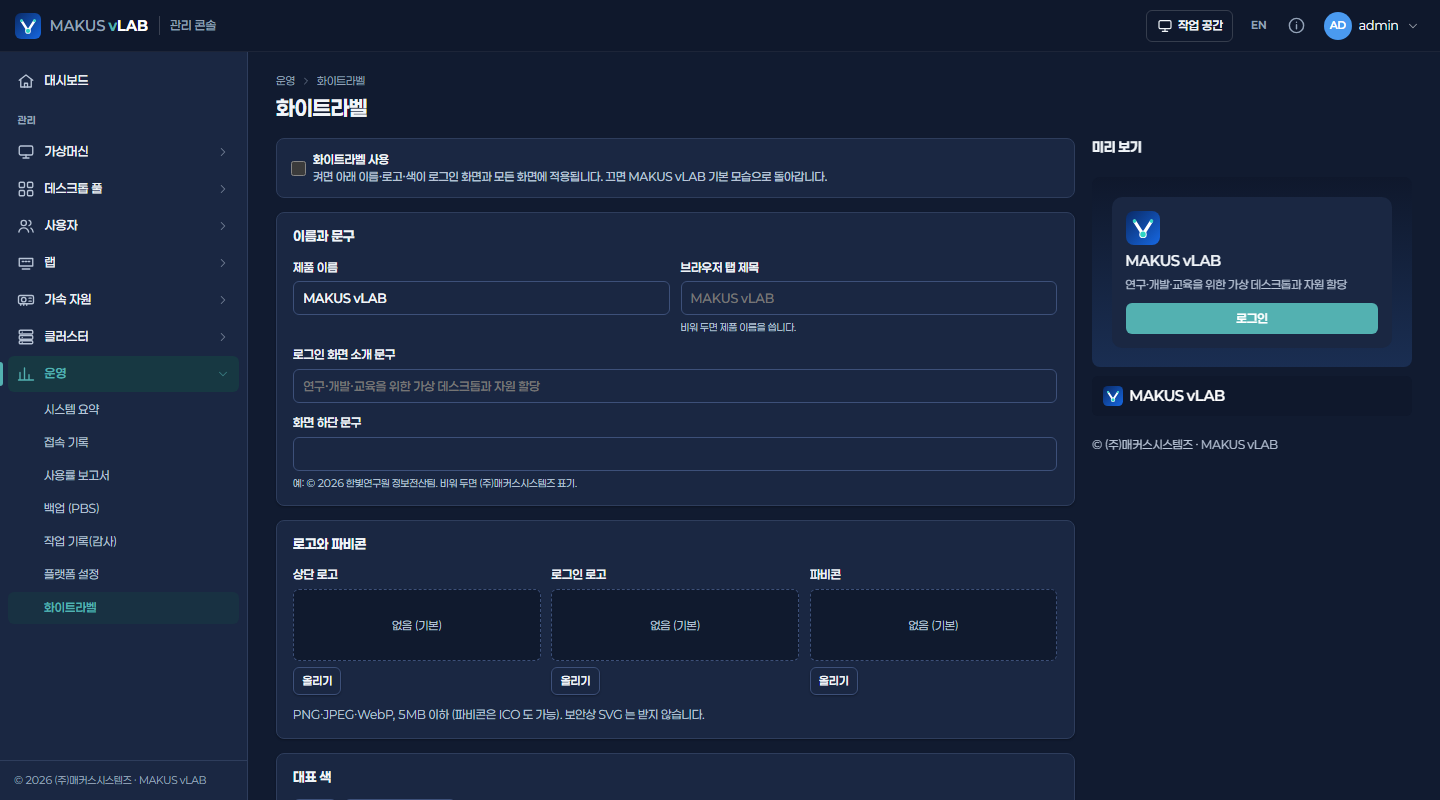
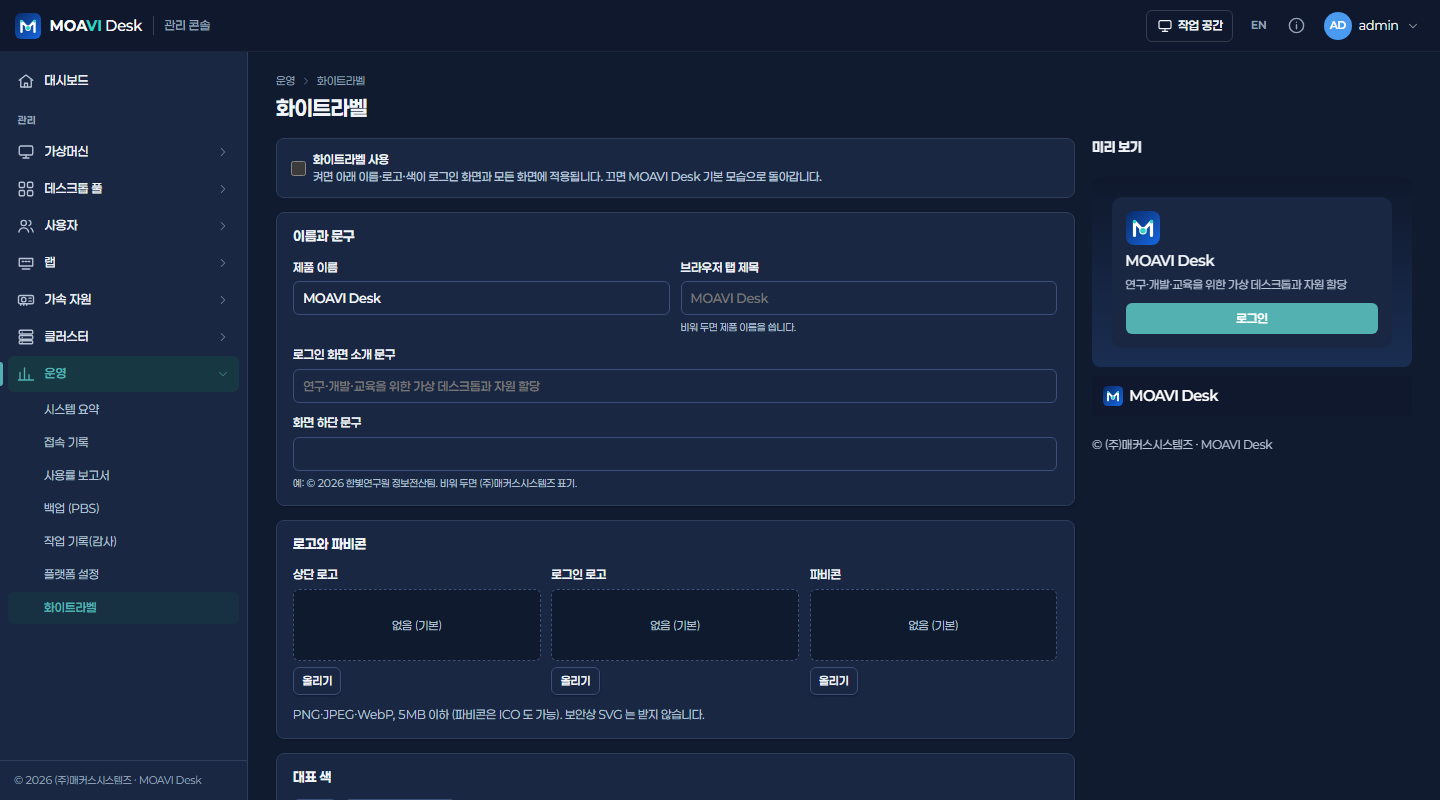
Product name MOAVI Desk: MOAVI family symbol and word mark

diff --git a/src/i18n/messages.ts b/src/i18n/messages.ts
@@ -38,7 +38,7 @@ export const messages = {
   'nav.manage': { ko: '관리', en: 'Administration' },
   'nav.dashboard': { ko: '대시보드', en: 'Dashboard' },
   'quick.title': { ko: '빠른 작업', en: 'Quick actions' },
-  'quick.client': { ko: 'vLAB Client 받기', en: 'Get the vLAB Client' },
+  'quick.client': { ko: 'MOAVI Desk Client 받기', en: 'Get MOAVI Desk Client' },
   'quick.clientDesc': { ko: 'PC나 랩 단말에 설치해 클릭 한 번으로 접속합니다.', en: 'Install it on your PC or lab terminal and connect in one click.' },
   'quick.soon': { ko: '준비 중', en: 'Coming soon' },
   'quick.help': { ko: '접속 방법 안내', en: 'How to connect' },
@@ -79,7 +79,7 @@ export const messages = {
   'portal.resources': { ko: '내 자원', en: 'My resources' },
   'portal.empty': { ko: '할당된 데스크톱이 없습니다.', en: 'No desktops are assigned to you.' },
   'portal.emptyHint': { ko: '관리자가 데스크톱 풀 권한을 주면 여기에 나타납니다.', en: 'Desktops appear here once an administrator grants you a pool.' },
-  'portal.notReady': { ko: '서버에 vLAB 기능이 아직 준비되지 않았습니다.', en: 'The vLAB service is not available on the server yet.' },
+  'portal.notReady': { ko: '서버에 MOAVI Desk 기능이 아직 준비되지 않았습니다.', en: 'The MOAVI Desk service is not available on the server yet.' },
   'portal.connect': { ko: '접속', en: 'Connect' },
   'portal.state.ready': { ko: '사용 가능', en: 'Ready' },
   'portal.state.in_use': { ko: '사용 중', en: 'In use' },
@@ -212,10 +212,10 @@ export const messages = {
   'access.desktops': { ko: '할당된 데스크톱', en: 'Assigned desktops' },
   'access.noDesktops': { ko: '할당된 데스크톱이 없습니다.', en: 'No desktops assigned.' },
   'access.acl': { ko: 'VM 권한', en: 'VM grants' },
-  'access.aclHint': { ko: '"vLAB 할당"은 할당을 해제하면 함께 회수됩니다. "직접 부여"는 vLAB 밖에서 준 권한이라 할당을 해제해도 남습니다.', en: '"vLAB assignment" goes away with the assignment. "Direct" was given outside vLAB and stays after unassigning.' },
+  'access.aclHint': { ko: '"MOAVI Desk 할당"은 할당을 해제하면 함께 회수됩니다. "직접 부여"는 MOAVI Desk 밖에서 준 권한이라 할당을 해제해도 남습니다.', en: '"MOAVI Desk assignment" goes away with the assignment. "Direct" was given outside MOAVI Desk and stays after unassigning.' },
   'access.noAcl': { ko: 'VM 권한이 없습니다.', en: 'No VM grants.' },
   'access.aclUnavailable': { ko: 'VM 권한 목록을 읽지 못했습니다.', en: 'The VM access list could not be read.' },
-  'access.src.vlab': { ko: 'vLAB 할당', en: 'vLAB assignment' },
+  'access.src.vlab': { ko: 'MOAVI Desk 할당', en: 'MOAVI Desk assignment' },
   'access.src.direct': { ko: '직접 부여', en: 'Direct' },
   'access.perms': { ko: '권한', en: 'Permissions' },
   'access.source': { ko: '권한 출처', en: 'Granted by' },
@@ -239,7 +239,7 @@ export const messages = {
   'dir.userFilter': { ko: '사용자 필터', en: 'User filter' },
   'dir.attrs': { ko: '속성 (아이디 · 메일 · 표시 이름)', en: 'Attributes (username · mail · display name)' },
   'dir.groups': { ko: '그룹 → 역할', en: 'Groups → roles' },
-  'dir.groupsHint': { ko: 'AD 그룹마다 vLAB 역할을 정합니다. 예: IT 관리자 그룹 → 관리자, 연구원·직원·교육생 그룹 → 사용자.', en: 'Map AD groups to vLAB roles, e.g. staff → administrator, students → user.' },
+  'dir.groupsHint': { ko: 'AD 그룹마다 MOAVI Desk 역할을 정합니다. 예: IT 관리자 그룹 → 관리자, 연구원·직원·교육생 그룹 → 사용자.', en: 'Map AD groups to MOAVI Desk roles, e.g. staff → administrator, students → user.' },
   'dir.groupDn': { ko: '그룹 DN', en: 'Group DN' },
   'dir.addMapping': { ko: '그룹 추가', en: 'Add group' },
   'dir.accounts': { ko: '계정 만들기', en: 'Accounts' },
@@ -307,7 +307,7 @@ export const messages = {
   'cl.storage': { ko: "스토리지", en: "Storage" },
   'cl.guests': { ko: "게스트", en: "Guests" },
   'cl.runningOf': { ko: "{n}대 실행 중", en: "{n} running" },
-  'cl.desktops': { ko: "vLAB 데스크톱", en: "vLAB desktops" },
+  'cl.desktops': { ko: "MOAVI Desk 데스크톱", en: "MOAVI Desk desktops" },
   'cl.perNode': { ko: "노드별 사용량", en: "Use per node" },
   'cl.storageUse': { ko: "스토리지 사용량", en: "Storage use" },
   'cl.node': { ko: "노드", en: "Node" },
@@ -414,7 +414,7 @@ export const messages = {
   'gpu.applied': { ko: "{n}대에 적용했습니다.", en: "Applied to {n}." },
   'gpu.restart': { ko: "켜져 있는 {n}대는 다시 켜야 반영됩니다.", en: "{n} running desktops take it at their next start." },
   'gpu.failed': { ko: "{n}대 실패: {error}", en: "{n} failed: {error}" },
-  'gpu.slotNote': { ko: "vLAB은 VM의 hostpci15 자리만 씁니다. 직접 넣은 다른 PCI 장치는 그대로 둡니다.", en: "vLAB only writes the VM’s hostpci15 slot; other PCI devices stay as they are." },
+  'gpu.slotNote': { ko: "MOAVI Desk는 VM의 hostpci15 자리만 씁니다. 직접 넣은 다른 PCI 장치는 그대로 둡니다.", en: "MOAVI Desk only writes the VM’s hostpci15 slot; other PCI devices stay as they are." },
   'admin.heroSub': { ko: "데스크톱·GPU·FPGA 자원과 랩을 한 곳에서 관리합니다.", en: "Desktops, GPU and FPGA resources and labs, managed in one place." },
   'admin.pageCount': { ko: '화면 {n}개', en: '{n} pages' },
   'admin.modules': { ko: "관리 모듈", en: "Modules" },
@@ -448,7 +448,7 @@ export const messages = {
   'ln.noDesktop': { ko: "할당된 데스크톱이 없습니다. 먼저 데스크톱을 사용자에게 할당하세요.", en: "No assigned desktop. Assign a desktop to a user first." },
   'ln.lent': { ko: "'{name}'을(를) 빌려주었습니다.", en: "'{name}' lent." },
   'ln.restart': { ko: "데스크톱이 켜져 있어 다시 켜야 카드가 보입니다.", en: "The desktop is running: it sees the card after a restart." },
-  'ln.note': { ko: "반납 시각이 지나면 vLAB이 1분 안에 카드를 VM에서 뺍니다(hostpci14). 켜져 있는 VM은 꺼질 때까지 카드를 씁니다.", en: "When a loan ends vLAB takes the card off the VM within a minute (hostpci14); a running VM keeps it until it stops." },
+  'ln.note': { ko: "반납 시각이 지나면 MOAVI Desk가 1분 안에 카드를 VM에서 뺍니다(hostpci14). 켜져 있는 VM은 꺼질 때까지 카드를 씁니다.", en: "When a loan ends MOAVI Desk takes the card off the VM within a minute (hostpci14); a running VM keeps it until it stops." },
   'ln.days': { ko: "{n}일", en: "{n} d" },
   'ln.hours': { ko: "{n}시간", en: "{n} h" },
   'portal.morning': { ko: "좋은 아침입니다", en: "Good morning" },
@@ -534,7 +534,7 @@ export const messages = {
   'pol.offShort': { ko: "끔", en: "Off" },
   'pol.none': { ko: "없음", en: "None" },
   'wl.enable': { ko: "화이트라벨 사용", en: "Use the white label" },
-  'wl.enableHint': { ko: "켜면 아래 이름·로고·색이 로그인 화면과 모든 화면에 적용됩니다. 끄면 MAKUS vLAB 기본 모습으로 돌아갑니다.", en: "When on, the name, logos and colour below apply to the sign-in screen and every screen. Off shows the MAKUS vLAB look." },
+  'wl.enableHint': { ko: "켜면 아래 이름·로고·색이 로그인 화면과 모든 화면에 적용됩니다. 끄면 MOAVI Desk 기본 모습으로 돌아갑니다.", en: "When on, the name, logos and colour below apply to the sign-in screen and every screen. Off shows the MOAVI Desk look." },
   'wl.identity': { ko: "이름과 문구", en: "Name and texts" },
   'wl.appName': { ko: "제품 이름", en: "Product name" },
   'wl.browserTitle': { ko: "브라우저 탭 제목", en: "Browser tab title" },
@@ -582,7 +582,7 @@ export const messages = {
   'bk.mode.stop': { ko: "끄고 백업", en: "Stop" },
   'bk.desktops': { ko: "데스크톱 {n}대", en: "{n} desktops" },
   'bk.noJobs': { ko: "예약 백업이 없습니다.", en: "No scheduled backup." },
-  'bk.otherJob': { ko: "(vLAB 밖에서 만든 작업)", en: "(made outside vLAB)" },
+  'bk.otherJob': { ko: "(MOAVI Desk 밖에서 만든 작업)", en: "(made outside MOAVI Desk)" },
   'bk.deleteJob': { ko: "예약 백업 '{name}'을(를) 지울까요? 이미 만든 백업은 남습니다.", en: "Delete the scheduled backup '{name}'? Backups already made stay." },
   'bk.pickDesktop': { ko: "데스크톱", en: "Desktop" },
   'bk.now': { ko: "지금 백업", en: "Back up now" },
@@ -627,7 +627,7 @@ export const messages = {
   'audit.action': { ko: '작업', en: 'Action' },
   'audit.details': { ko: '내용', en: 'Details' },
   'audit.ip': { ko: 'IP', en: 'IP' },
-  'audit.vlabOnly': { ko: 'vLAB 작업만', en: 'vLAB only' },
+  'audit.vlabOnly': { ko: 'MOAVI Desk 작업만', en: 'MOAVI Desk only' },
   'audit.from': { ko: '부터', en: 'From' },
   'audit.to': { ko: '까지', en: 'To' },
   'audit.empty': { ko: '기록이 없습니다.', en: 'No entries.' },
@@ -661,13 +661,13 @@ export const messages = {
   'cluster.ssl': { ko: '인증서 확인 (정식 인증서를 쓰는 경우)', en: 'Verify the certificate (when it is a real one)' },
   'cluster.connected': { ko: '연결됨', en: 'Connected' },
   'cluster.offline': { ko: '연결 안 됨', en: 'Not connected' },
-  'cluster.pools': { ko: 'vLAB 풀', en: 'vLAB pools' },
+  'cluster.pools': { ko: 'MOAVI Desk 풀', en: 'MOAVI Desk pools' },
   'cluster.disconnect': { ko: '연결 해제', en: 'Disconnect' },
   'cluster.disconnectConfirm': { ko: '이 클러스터 연결을 해제할까요? 클러스터의 VM은 그대로 남습니다.', en: 'Disconnect this cluster? Its VMs are not touched.' },
-  'cluster.hasPools': { ko: '이 클러스터를 쓰는 vLAB 풀이 있어 해제할 수 없습니다. 풀을 먼저 지우세요.', en: 'vLAB pools use this cluster. Delete them first.' },
+  'cluster.hasPools': { ko: '이 클러스터를 쓰는 MOAVI Desk 풀이 있어 해제할 수 없습니다. 풀을 먼저 지우세요.', en: 'MOAVI Desk pools use this cluster. Delete them first.' },
   'cluster.empty': { ko: '연결된 클러스터가 없습니다. Proxmox VE 클러스터를 연결하세요.', en: 'No cluster connected yet. Connect a Proxmox VE cluster.' },
   'cluster.added': { ko: '클러스터를 연결했습니다.', en: 'Cluster connected.' },
-  'cluster.tokenCreated': { ko: '클러스터에 vLAB 전용 API 토큰을 만들어 그것으로 접속합니다.', en: 'A dedicated API token was created on the cluster and is used from now on.' },
+  'cluster.tokenCreated': { ko: '클러스터에 MOAVI Desk 전용 API 토큰을 만들어 그것으로 접속합니다.', en: 'A dedicated API token was created on the cluster and is used from now on.' },
 
   'about.title': { ko: '정보', en: 'About' },
   'about.version': { ko: '버전', en: 'Version' },

diff --git a/src/components/Brand.tsx b/src/components/Brand.tsx
@@ -1,31 +1,28 @@
 import { useId } from 'react';
 import { BRAND } from '../brand';
 import { useBranding } from '../branding';
-import { useI18n } from '../i18n';
 
-// The vLAB symbol, drawn like MOAVI's: navy-to-blue tile, white stroke, teal nodes (a V for vLAB).
+// The MOAVI family symbol (navy-to-blue tile, white M, teal nodes), as MOAVI draws it.
 export function BrandMark({ size = 28 }: { size?: number }) {
   const id = useId();
   return (
     <svg width={size} height={size} viewBox="0 0 64 64" aria-hidden="true" className="brand-mark">
       <defs><linearGradient id={id} x1="0" y1="0" x2="1" y2="1"><stop offset="0" stopColor="#0A2A66" /><stop offset="1" stopColor="#1668E3" /></linearGradient></defs>
       <rect width="64" height="64" rx="15" fill={`url(#${id})`} />
-      <path d="M16 19 L32 44 L48 19" fill="none" stroke="#fff" strokeWidth="6" strokeLinecap="round" strokeLinejoin="round" />
-      <circle cx="16" cy="19" r="3.4" fill="#2FD4C4" /><circle cx="48" cy="19" r="3.4" fill="#2FD4C4" />
-      <circle cx="32" cy="44" r="7" fill="#fff" /><circle cx="32" cy="44" r="5.2" fill="#2FD4C4" />
+      <path d="M16 46 V20 L32 37 L48 20 V46" fill="none" stroke="#fff" strokeWidth="6" strokeLinecap="round" strokeLinejoin="round" />
+      <circle cx="16" cy="20" r="3.4" fill="#2FD4C4" /><circle cx="48" cy="20" r="3.4" fill="#2FD4C4" />
+      <circle cx="32" cy="37" r="7" fill="#fff" /><circle cx="32" cy="37" r="5.2" fill="#2FD4C4" />
     </svg>
   );
 }
 
-// "MAKUS vLAB" as a word mark (v in the accent, like MOAVI's VI), or the white label's name.
-export function BrandName({ withTag = false }: { withTag?: boolean }) {
-  const { pick } = useI18n();
+// "MOAVI Desk" as a word mark: MOA + VI (accent) like MOAVI's own, then the product word. Or the white label's name.
+export function BrandName() {
   const { b, custom } = useBranding();
   if (custom && b.appName && b.appName !== BRAND.productName) return <span className="brand-name">{b.appName}</span>;
   return (
     <span className="brand-name">
-      <span className="brand-makus">MAKUS</span> <span className="brand-product"><span className="brand-v">v</span>LAB</span>
-      {withTag && <span className="brand-tag">{pick(BRAND.productTag)}</span>}
+      <span className="brand-family">MOA<span className="brand-vi">VI</span></span> <span className="brand-product">Desk</span>
     </span>
   );
 }

diff --git a/src/admin/pages/BrandingPage.tsx b/src/admin/pages/BrandingPage.tsx
@@ -1,6 +1,7 @@
 import { useEffect, useRef, useState, type FormEvent } from 'react';
 import { adminApi } from '../../api/admin';
 import type { Branding, BrandingSlot } from '../../api/types';
+import { BRAND } from '../../brand';
 import { useBranding } from '../../branding';
 import { BrandMark } from '../../components/Brand';
 import { Icon } from '../../components/Icon';
@@ -125,15 +126,15 @@ function BrandingForm({ initial }: { initial: Branding }) {
         <div className="wl-pv-login">
           <div className="wl-pv-card">
             {b.loginLogoUrl || b.logoUrl ? <img src={b.loginLogoUrl || b.logoUrl} alt="" className="wl-pv-logo" /> : <BrandMark size={34} />}
-            <div className="strong">{b.enabled ? b.appName : 'MAKUS vLAB'}</div>
+            <div className="strong">{b.enabled ? b.appName : BRAND.productName}</div>
             <div className="muted small">{b.loginTagline || pick({ ko: '연구·개발·교육을 위한 가상 데스크톱과 자원 할당', en: 'Virtual desktops and shared resources for R&D and labs' })}</div>
             <span className="wl-pv-btn" style={{ background: color }}>{t('login.submit' as MessageKey)}</span>
           </div>
         </div>
         <div className="wl-pv-bar">
-          {b.logoUrl ? <img src={b.logoUrl} alt="" className="wl-pv-barlogo" /> : <><BrandMark size={20} /><span className="strong">{b.enabled ? b.appName : 'MAKUS vLAB'}</span></>}
+          {b.logoUrl ? <img src={b.logoUrl} alt="" className="wl-pv-barlogo" /> : <><BrandMark size={20} /><span className="strong">{b.enabled ? b.appName : BRAND.productName}</span></>}
         </div>
-        <p className="muted small">{b.footerText || '© (주)매커스시스템즈 · MAKUS vLAB'}</p>
+        <p className="muted small">{b.footerText || `© (주)매커스시스템즈 · ${BRAND.productName}`}</p>
       </aside>
     </div>
   );

diff --git a/src/styles.css b/src/styles.css
@@ -1,4 +1,4 @@
-/* MAKUS vLAB console - design system v3 (docs/vlab-design.md 4-4).
+/* MOAVI Desk console - design system v3 (docs/vlab-design.md 4-4).
    Two frames like commercial VDI products: the user's workspace (scene band, tiles) and the
    admin console (dark top bar, light navigation, quiet cards and tables). One accent colour;
    status colours only for status; icons in text colour. */
@@ -614,9 +614,9 @@ fieldset.choices legend { font-size: .85rem; font-weight: 550; margin-bottom: .3
 .console-clip-actions { display: flex; align-items: center; gap: .6rem; color: var(--muted); }
 
 /* ---------- brand (MAKUS) ---------- */
-.brand-makus { color: var(--head-muted); font-weight: 600; letter-spacing: .02em; }
-.brand-product { font-weight: 800; letter-spacing: .01em; }
-.brand-v { color: var(--accent); }
+.brand-family { font-weight: 800; letter-spacing: .04em; }
+.brand-vi { color: #2FD4C4; }
+.brand-product { font-weight: 500; letter-spacing: .01em; }
 .tb-brand .brand-product { color: #fff; }
 .brand-logo { height: 28px; max-width: 200px; object-fit: contain; display: block; }
 .brand-logo-login { height: 44px; max-width: 220px; object-fit: contain; }

diff --git a/src/admin/pages/SettingsPage.tsx b/src/admin/pages/SettingsPage.tsx
@@ -177,7 +177,7 @@ function SettingsForm({ initial, onSaved }: { initial: PlatformSettings; onSaved
           <label><span>{t('set.fromEmail')}</span>
             <input type="email" value={v.smtp_from_email} placeholder="vlab@lab.example" onChange={(e) => set('smtp_from_email', e.target.value)} /></label>
           <label><span>{t('set.fromName')}</span>
-            <input value={v.smtp_from_name} placeholder="MAKUS vLAB" onChange={(e) => set('smtp_from_name', e.target.value)} /></label>
+            <input value={v.smtp_from_name} placeholder="MOAVI Desk" onChange={(e) => set('smtp_from_name', e.target.value)} /></label>
         </div>
         <label><span>{t('set.recipients')}</span>
           <input value={recipients} placeholder="ops@lab.example, it@lab.example" onChange={(e) => setRecipients(e.target.value)} />

diff --git a/src/api/mockAdmin.ts b/src/api/mockAdmin.ts
@@ -226,7 +226,7 @@ export const mockAdminApi: AdminApi = {
   branding: () => delay({ ...mockBranding }),
   saveBranding: (b) => {
     const hex = /^#?[0-9a-f]{6}$/i.test(b.primaryColor) ? (b.primaryColor.startsWith('#') ? b.primaryColor : '#' + b.primaryColor).toLowerCase() : '';
-    Object.assign(mockBranding, { ...b, primaryColor: hex, appName: b.appName.trim() || 'MAKUS vLAB',
+    Object.assign(mockBranding, { ...b, primaryColor: hex, appName: b.appName.trim() || 'MOAVI Desk',
       logoUrl: mockBranding.logoUrl, loginLogoUrl: mockBranding.loginLogoUrl, faviconUrl: mockBranding.faviconUrl });
     return delay({ ...mockBranding });
   },

diff --git a/src/admin/pages/SummaryPage.tsx b/src/admin/pages/SummaryPage.tsx
@@ -24,7 +24,7 @@ export function SummaryPage() {
               <h2 className="section-title">{t('sum.versions')}</h2>
               <dl className="about-list">
                 <dt>{t('sum.console')}</dt><dd>{__APP_VERSION__}</dd>
-                <dt>{t('sum.engine')}</dt><dd>{s.versions.engine} · vLAB API {s.versions.vlab_api}</dd>
+                <dt>{t('sum.engine')}</dt><dd>{s.versions.engine} · Desk API {s.versions.vlab_api}</dd>
                 {s.versions.build && <><dt>{t('sum.build')}</dt><dd>{s.versions.build}</dd></>}
                 <dt>{t('about.engine')}</dt>
                 <dd>

diff --git a/src/brand.ts b/src/brand.ts
@@ -1,8 +1,8 @@
 // The one place the product's name and look are defined.
-// The product name is not decided yet: change it here only.
+// MOAVI Desk: the VDI product of the MOAVI family. Change the name here only.
 export const BRAND = {
-  productName: 'MAKUS vLAB',
-  productTag: { ko: '가칭', en: 'working name' },
+  productName: 'MOAVI Desk',
+  family: 'MOAVI',
   company: { ko: '(주)매커스시스템즈', en: 'MAKUS SYSTEMS Co., Ltd.' },
   tagline: {
     ko: '연구·개발·교육을 위한 가상 데스크톱과 자원 할당',

diff --git a/src/api/mock.ts b/src/api/mock.ts
@@ -38,7 +38,7 @@ const delay = <T,>(v: T) => new Promise<T>((r) => setTimeout(() => r(v), 150));
 
 // the white label, shared with the admin mock (운영 > 화이트라벨)
 export const mockBranding: Branding = {
-  enabled: false, appName: 'MAKUS vLAB', browserTitle: '', logoUrl: '', loginLogoUrl: '', faviconUrl: '',
+  enabled: false, appName: 'MOAVI Desk', browserTitle: '', logoUrl: '', loginLogoUrl: '', faviconUrl: '',
   primaryColor: '', footerText: '', loginTagline: '', docsUrl: '', supportUrl: '', hideVersion: false,
 };
 

diff --git a/src/components/AboutDialog.tsx b/src/components/AboutDialog.tsx
@@ -21,7 +21,7 @@ export function AboutDialog({ open, onClose }: { open: boolean; onClose: () => v
       <div className="dialog-head">
         <BrandMark size={36} />
         <div>
-          <div className="dialog-title"><BrandName withTag /></div>
+          <div className="dialog-title"><BrandName /></div>
           <div className="muted">{pick(BRAND.tagline)}</div>
         </div>
       </div>

diff --git a/src/auth/LoginPage.tsx b/src/auth/LoginPage.tsx
@@ -66,7 +66,7 @@ export function LoginPage() {
         <div className="login-brand">
           <BrandMark size={44} />
           <div>
-            <h1><BrandName withTag /></h1>
+            <h1><BrandName /></h1>
             <p className="muted">{b.loginTagline || pick(BRAND.tagline)}</p>
           </div>
         </div>

diff --git a/index.html b/index.html
@@ -4,7 +4,7 @@
     <meta charset="UTF-8" />
     <meta name="viewport" content="width=device-width, initial-scale=1.0" />
     <link rel="icon" type="image/svg+xml" href="/favicon.svg" />
-    <title>vLAB</title>
+    <title>MOAVI Desk</title>
   </head>
   <body>
     <div id="root"></div>
